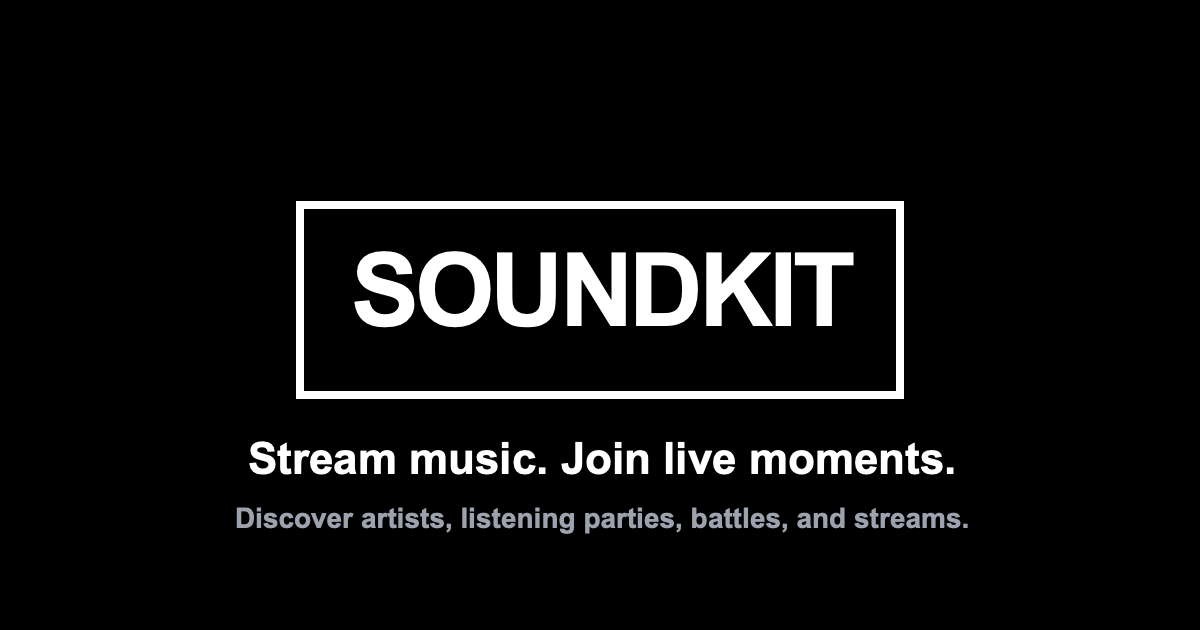
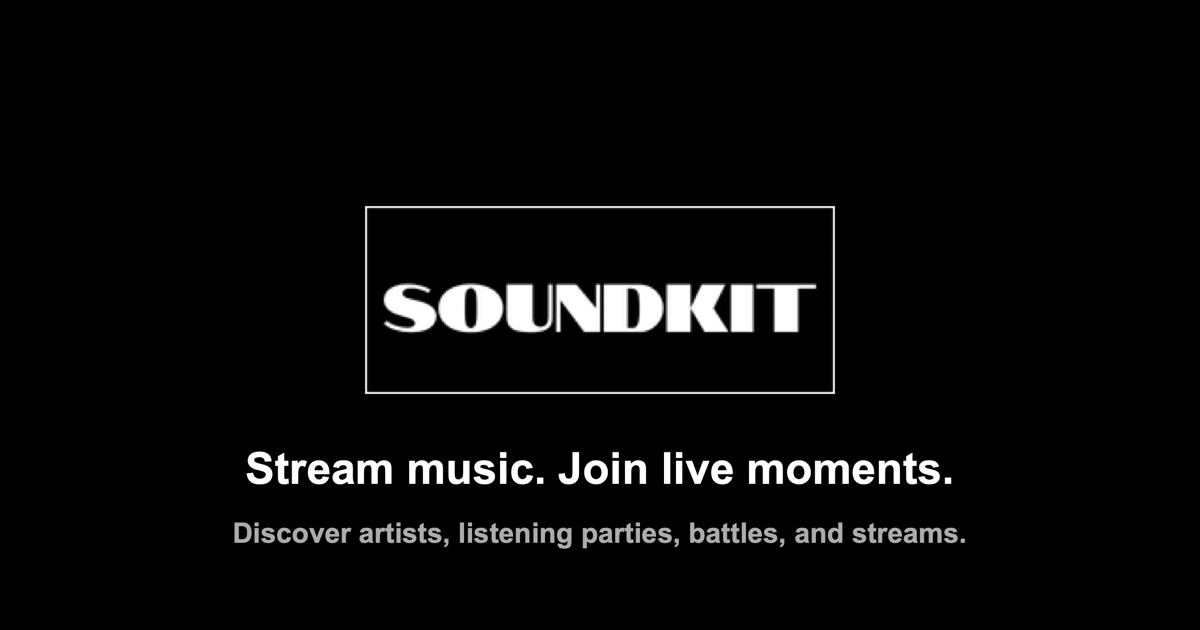
feat(web): refresh soundkit branding and seo assets

Changed region(s): [[0.2467, 0.3016, 0.7708, 0.6333], [0.185, 0.6937, 0.8017, 0.8746]]

diff --git a/apps/website/src/app/__root.tsx b/apps/website/src/app/__root.tsx
@@ -24,6 +24,7 @@ const SITE_URL = "https://soundkit-web.rocktown-labs.workers.dev";
 const SITE_DESCRIPTION =
   "Stream music, discover artists, join listening parties, and tune into live battles and creator streams on SoundKit.";
 const SITE_TITLE = "SoundKit | Stream music and join live moments";
+const SITE_ICON_URL = `${SITE_URL}/android-chrome-512x512.png`;
 const SOCIAL_IMAGE_URL = `${SITE_URL}/soundkit-social-card.png`;
 
 export const Route = createRootRouteWithContext<RouterAppContext>()({
@@ -35,13 +36,33 @@ export const Route = createRootRouteWithContext<RouterAppContext>()({
         rel: "canonical",
       },
       {
-        href: "/icon.svg",
+        href: "/favicon.ico",
+        rel: "icon",
+      },
+      {
+        href: "/soundkit-mark.svg",
         rel: "icon",
         type: "image/svg+xml",
       },
       {
-        href: "/apple-icon.png",
+        href: "/favicon-32x32.png",
+        rel: "icon",
+        sizes: "32x32",
+        type: "image/png",
+      },
+      {
+        href: "/favicon-16x16.png",
+        rel: "icon",
+        sizes: "16x16",
+        type: "image/png",
+      },
+      {
+        href: "/apple-touch-icon.png",
         rel: "apple-touch-icon",
+      },
+      {
+        href: "/site.webmanifest",
+        rel: "manifest",
       },
       {
         href: appCss,
@@ -91,7 +112,7 @@ export const Route = createRootRouteWithContext<RouterAppContext>()({
         children: JSON.stringify({
           "@context": "https://schema.org",
           "@type": "Organization",
-          logo: SOCIAL_IMAGE_URL,
+          logo: SITE_ICON_URL,
           name: SITE_NAME,
           url: SITE_URL,
         }),

diff --git a/apps/website/src/components/soundkit-brand.tsx b/apps/website/src/components/soundkit-brand.tsx
@@ -1,0 +1,55 @@
+import { AppImage } from "@/components/ui/app-image";
+import { cn } from "@/lib/utils";
+
+interface SoundKitBrandProps {
+  className?: string;
+  markClassName?: string;
+  variant?: "sidebar" | "wordmark";
+  wordmarkClassName?: string;
+}
+
+export function SoundKitBrand({
+  className,
+  markClassName,
+  variant = "sidebar",
+  wordmarkClassName,
+}: SoundKitBrandProps) {
+  if (variant === "wordmark") {
+    return (
+      <div className={cn("flex items-center justify-center", className)}>
+        <AppImage
+          alt="SoundKit"
+          className={cn("h-10 w-auto shrink-0", wordmarkClassName)}
+          height={100}
+          src="/soundkit-wordmark.svg"
+          width={250}
+        />
+      </div>
+    );
+  }
+
+  return (
+    <div className={cn("flex w-full items-center justify-center", className)}>
+      <AppImage
+        alt="SoundKit"
+        className={cn(
+          "h-8 w-auto shrink-0 group-data-[collapsible=icon]:hidden",
+          wordmarkClassName
+        )}
+        height={100}
+        src="/soundkit-wordmark.svg"
+        width={250}
+      />
+      <AppImage
+        alt="SoundKit"
+        className={cn(
+          "hidden size-7 shrink-0 group-data-[collapsible=icon]:block",
+          markClassName
+        )}
+        height={48}
+        src="/soundkit-mark.svg"
+        width={48}
+      />
+    </div>
+  );
+}

diff --git a/apps/website/src/app/signup/fan/onboarding.tsx b/apps/website/src/app/signup/fan/onboarding.tsx
@@ -1,7 +1,8 @@
 import { createFileRoute, Link } from "@tanstack/react-router";
-import { Music, User, MapPin, Music2, Check } from "lucide-react";
+import { User, MapPin, Music2, Check } from "lucide-react";
 import { useState } from "react";
 
+import { SoundKitBrand } from "@/components/soundkit-brand";
 import { Badge } from "@/components/ui/badge";
 import { Button } from "@/components/ui/button";
 import { Card, CardContent } from "@/components/ui/card";
@@ -53,10 +54,11 @@ function FanOnboardingPage() {
       <div className="w-full max-w-2xl">
         {/* Header */}
         <div className="text-center mb-8">
-          <div className="flex items-center justify-center space-x-2 mb-4">
-            <Music className="h-8 w-8 text-primary" />
-            <span className="text-2xl font-bold font-notable">SoundKit</span>
-          </div>
+          <SoundKitBrand
+            className="mb-4"
+            variant="wordmark"
+            wordmarkClassName="h-12"
+          />
           <h1 className="text-2xl font-bold mb-2">
             Personalize Your Experience
           </h1>

diff --git a/apps/website/src/app/signup/artist/credentials.tsx b/apps/website/src/app/signup/artist/credentials.tsx
@@ -1,7 +1,8 @@
 import { createFileRoute, Link } from "@tanstack/react-router";
-import { Music, ArrowLeft, Mail } from "lucide-react";
+import { ArrowLeft, Mail } from "lucide-react";
 import { useState } from "react";
 
+import { SoundKitBrand } from "@/components/soundkit-brand";
 import { AppImage } from "@/components/ui/app-image";
 import { Button } from "@/components/ui/button";
 import {
@@ -34,10 +35,11 @@ function ArtistCredentialsPage() {
             <ArrowLeft className="h-4 w-4" />
             <span>Back</span>
           </Link>
-          <div className="flex items-center justify-center space-x-2 mb-4">
-            <Music className="h-8 w-8 text-primary" />
-            <span className="text-2xl font-bold font-notable">SoundKit</span>
-          </div>
+          <SoundKitBrand
+            className="mb-4"
+            variant="wordmark"
+            wordmarkClassName="h-12"
+          />
           <h1 className="text-2xl font-bold mb-2">Create Artist Account</h1>
           <p className="text-muted-foreground">
             Choose how you want to sign up

diff --git a/apps/website/src/app/signup/fan/credentials.tsx b/apps/website/src/app/signup/fan/credentials.tsx
@@ -1,7 +1,8 @@
 import { createFileRoute, Link } from "@tanstack/react-router";
-import { Music, ArrowLeft, Mail } from "lucide-react";
+import { ArrowLeft, Mail } from "lucide-react";
 import { useState } from "react";
 
+import { SoundKitBrand } from "@/components/soundkit-brand";
 import { AppImage } from "@/components/ui/app-image";
 import { Button } from "@/components/ui/button";
 import {
@@ -34,10 +35,11 @@ function FanCredentialsPage() {
             <ArrowLeft className="h-4 w-4" />
             <span>Back</span>
           </Link>
-          <div className="flex items-center justify-center space-x-2 mb-4">
-            <Music className="h-8 w-8 text-primary" />
-            <span className="text-2xl font-bold font-notable">SoundKit</span>
-          </div>
+          <SoundKitBrand
+            className="mb-4"
+            variant="wordmark"
+            wordmarkClassName="h-12"
+          />
           <h1 className="text-2xl font-bold mb-2">Create Fan Account</h1>
           <p className="text-muted-foreground">
             Choose how you want to sign up

diff --git a/apps/website/src/app/signup/artist/onboarding.tsx b/apps/website/src/app/signup/artist/onboarding.tsx
@@ -1,6 +1,5 @@
 import { createFileRoute, Link } from "@tanstack/react-router";
 import {
-  Music,
   User,
   MapPin,
   Users,
@@ -11,6 +10,7 @@ import {
 } from "lucide-react";
 import { useState } from "react";
 
+import { SoundKitBrand } from "@/components/soundkit-brand";
 import { Button } from "@/components/ui/button";
 import { Card, CardContent } from "@/components/ui/card";
 import { Input } from "@/components/ui/input";
@@ -39,10 +39,11 @@ function ArtistOnboardingPage() {
       <div className="w-full max-w-2xl">
         {/* Header */}
         <div className="text-center mb-8">
-          <div className="flex items-center justify-center space-x-2 mb-4">
-            <Music className="h-8 w-8 text-primary" />
-            <span className="text-2xl font-bold font-notable">SoundKit</span>
-          </div>
+          <SoundKitBrand
+            className="mb-4"
+            variant="wordmark"
+            wordmarkClassName="h-12"
+          />
           <h1 className="text-2xl font-bold mb-2">
             Set Up Your Artist Profile
           </h1>

diff --git a/apps/website/src/components/dashboard/app-sidebar.tsx b/apps/website/src/components/dashboard/app-sidebar.tsx
@@ -35,6 +35,7 @@ import {
   SidebarMenuItem,
   SidebarRail,
 } from "@/components/ui/sidebar";
+import { SoundKitBrand } from "@/components/soundkit-brand";
 
 const myMusicNavigation: SidebarNavItem[] = [
   { href: "/dashboard", icon: Home, name: "Dashboard" },
@@ -107,15 +108,7 @@ export function AppSidebar() {
           <SidebarMenuItem>
             <SidebarMenuButton size="lg" asChild>
               <Link to="/dashboard">
-                <div className="flex aspect-square size-8 items-center justify-center rounded-lg bg-primary text-primary-foreground">
-                  <Music className="size-4" />
-                </div>
-                <div className="flex flex-col gap-0.5 leading-none">
-                  <span className="font-semibold">SoundKit</span>
-                  <span className="text-xs text-muted-foreground">
-                    Music Platform
-                  </span>
-                </div>
+                <SoundKitBrand />
               </Link>
             </SidebarMenuButton>
           </SidebarMenuItem>

diff --git a/apps/website/src/components/explore/explore-app-sidebar.tsx b/apps/website/src/components/explore/explore-app-sidebar.tsx
@@ -22,6 +22,7 @@ import {
   SidebarMenuItem,
   SidebarRail,
 } from "@/components/ui/sidebar";
+import { SoundKitBrand } from "@/components/soundkit-brand";
 
 const discoverLinks: SidebarNavItem[] = [
   { href: "/", icon: MapPin, label: "Home" },
@@ -92,15 +93,7 @@ export function ExploreAppSidebar() {
           <SidebarMenuItem>
             <SidebarMenuButton size="lg" asChild>
               <Link to="/">
-                <div className="flex aspect-square size-8 items-center justify-center rounded-lg bg-primary text-primary-foreground">
-                  <Music className="size-4" />
-                </div>
-                <div className="flex flex-col gap-0.5 leading-none">
-                  <span className="font-semibold">SoundKit</span>
-                  <span className="text-xs text-muted-foreground">
-                    Discover Music
-                  </span>
-                </div>
+                <SoundKitBrand />
               </Link>
             </SidebarMenuButton>
           </SidebarMenuItem>

diff --git a/apps/website/src/app/login.tsx b/apps/website/src/app/login.tsx
@@ -1,6 +1,7 @@
 import { createFileRoute, Link } from "@tanstack/react-router";
-import { Music, ArrowLeft } from "lucide-react";
+import { ArrowLeft } from "lucide-react";
 
+import { SoundKitBrand } from "@/components/soundkit-brand";
 import { Button } from "@/components/ui/button";
 import {
   Card,
@@ -29,12 +30,11 @@ function LoginPage() {
             <ArrowLeft className="h-4 w-4" />
             <span>Back to home</span>
           </Link>
-          <div className="flex items-center justify-center space-x-2 mb-4">
-            <Music className="h-8 w-8 text-primary" />
-            <span className="text-2xl font-bold font-[family-name:var(--font-playfair)]">
-              SoundKit
-            </span>
-          </div>
+          <SoundKitBrand
+            className="mb-4"
+            variant="wordmark"
+            wordmarkClassName="h-12"
+          />
           <h1 className="text-2xl font-bold font-[family-name:var(--font-playfair)] mb-2">
             Welcome back
           </h1>

diff --git a/apps/website/src/app/sitemap[.]xml.ts b/apps/website/src/app/sitemap[.]xml.ts
@@ -6,7 +6,10 @@ const routes = [
   "/",
   "/tracks",
   "/artist",
-  "/battles",
+  "/live",
+  "/live/battles",
+  "/live/parties",
+  "/live/streams",
   "/genres",
   "/library",
   "/new-releases",
